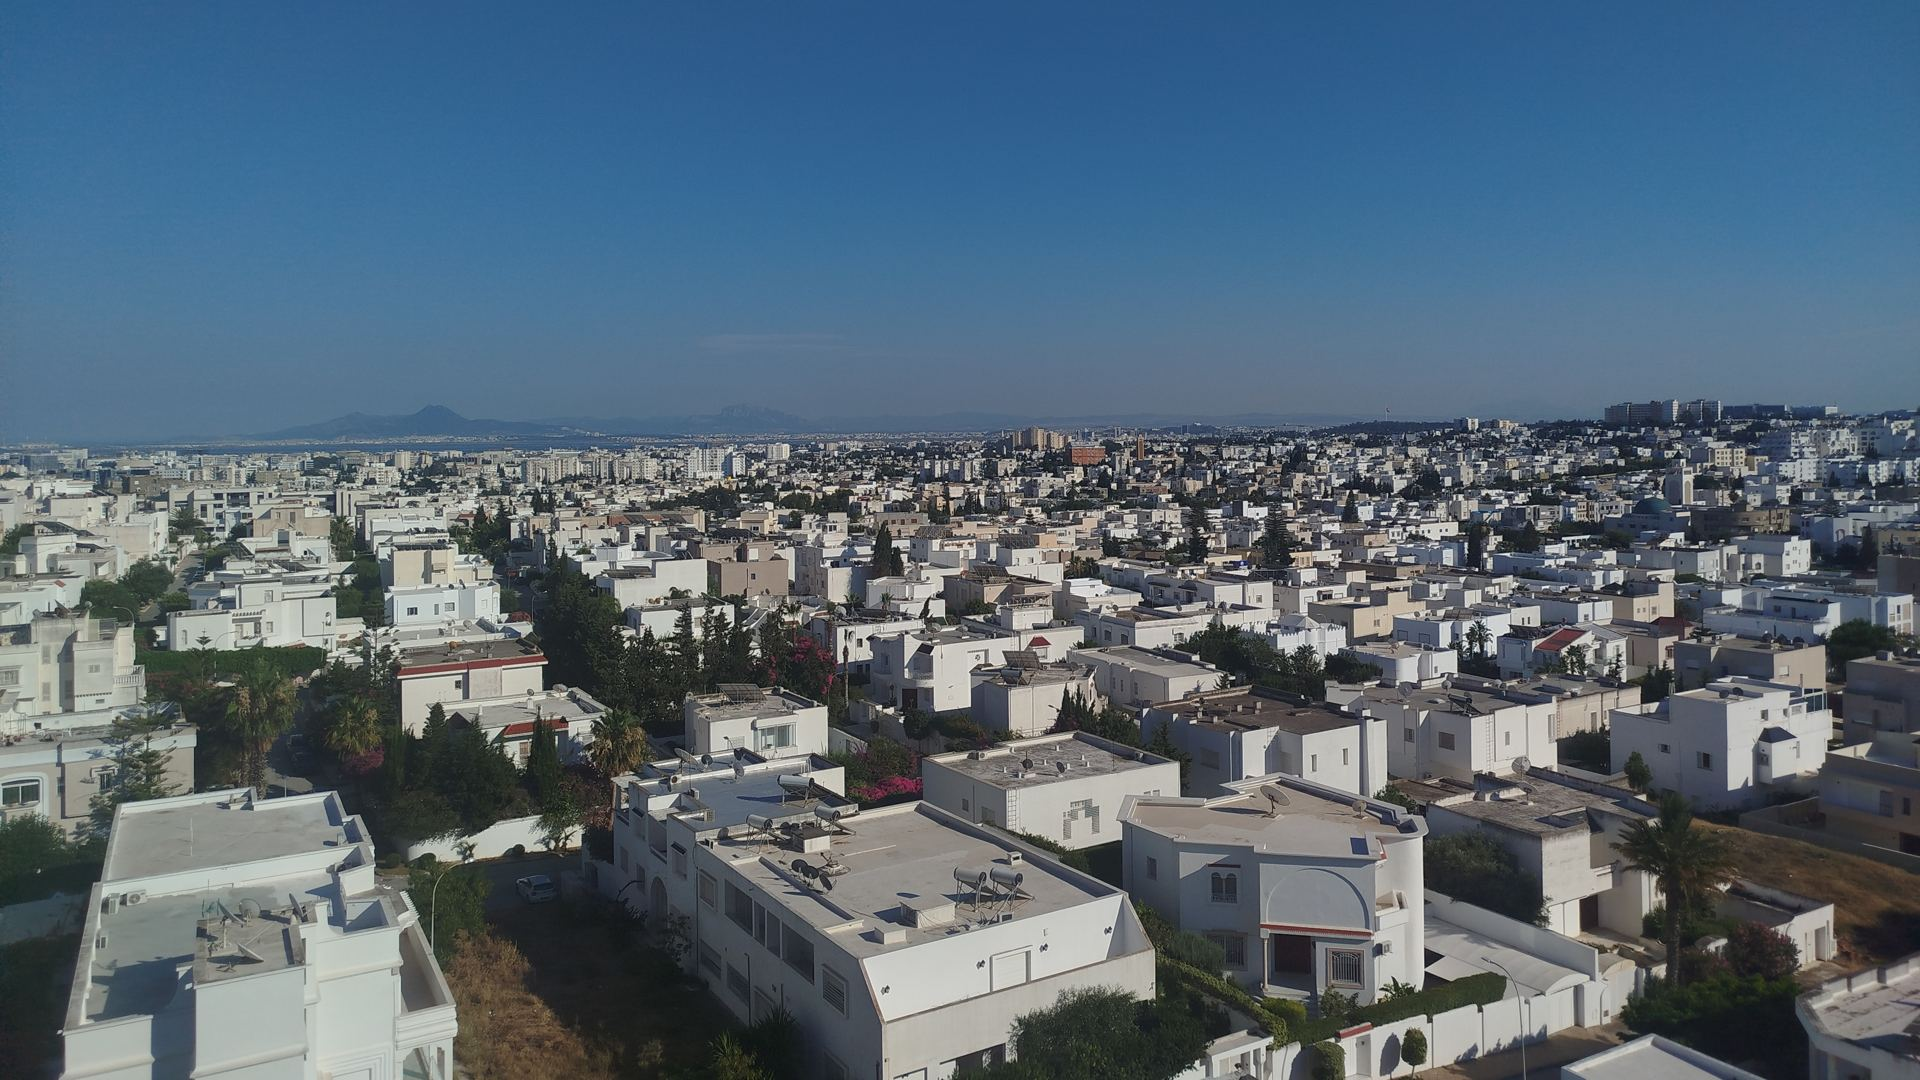
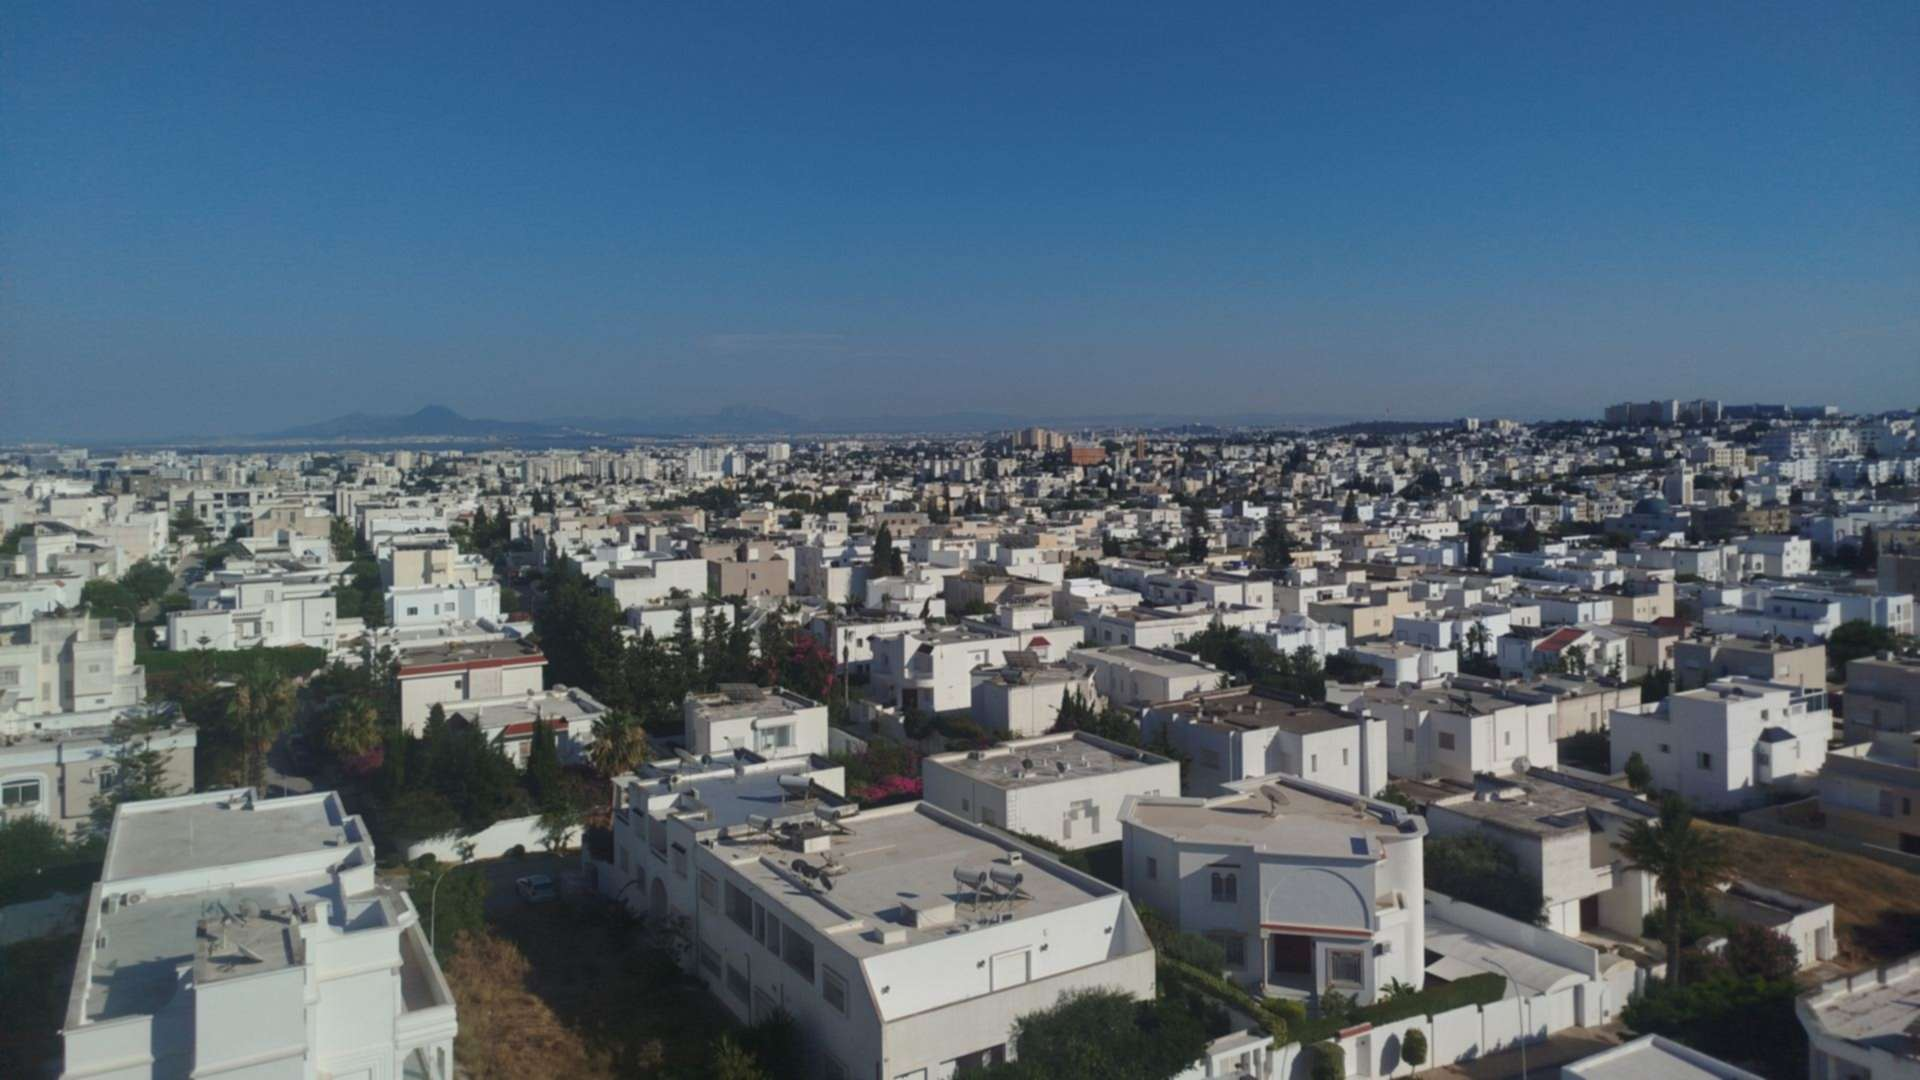
Page 404 du site + liens Confidentialité / Conditions d'utilisation dans le pied, photo d'accueil allégée (17/11/2026)

diff --git a/index.html b/index.html
@@ -19,7 +19,7 @@
 <link rel="preconnect" href="https://fonts.googleapis.com">
 <link rel="preconnect" href="https://fonts.gstatic.com" crossorigin>
 <link rel="stylesheet" href="https://fonts.googleapis.com/css2?family=Plus+Jakarta+Sans:wght@400;500;600;700;800&amp;family=IBM+Plex+Sans+Arabic:wght@400;500;700&amp;display=swap">
-<link rel="stylesheet" href="assets/agent.css?v=5">
+<link rel="stylesheet" href="assets/agent.css?v=6">
 <script type="application/ld+json">{"@context": "https://schema.org", "@type": "WebSite", "name": "Mon agent immobilier", "alternateName": "وكيلي العقاري", "url": "https://monagent.clicvia.com/", "inLanguage": ["fr", "ar"], "description": "Recherche d'annonces immobilières en Tunisie en une phrase, en français, en arabe ou en tunisien : appartements, maisons, terrains, à louer ou à vendre, dans les 24 gouvernorats.", "potentialAction": {"@type": "SearchAction", "target": {"@type": "EntryPoint", "urlTemplate": "https://monagent.clicvia.com/?q={search_term_string}"}, "query-input": "required name=search_term_string"}}</script>
 </head>
 <body data-maj="2026-11-16">
@@ -82,11 +82,12 @@
 <footer class="pied">
   <p data-fr="Les annonces restent celles de leurs auteurs : « Voir l’annonce » ouvre l’annonce d’origine. Prix et surfaces tels qu’ils sont publiés." data-ar="الإعلانات تبقى ملكًا لأصحابها: «شاهد الإعلان» يفتح الإعلان الأصلي. الأسعار والمساحات كما نُشرت.">Les annonces restent celles de leurs auteurs : « Voir l’annonce » ouvre l’annonce d’origine. Prix et surfaces tels qu’ils sont publiés.</p>
   <p class="credit"><span data-fr="Photo : Cité Ennasr, par Noomen9, Wikimedia Commons (domaine public)." data-ar="الصورة: حي النصر، Noomen9، ويكيميديا كومنز (ملك عام).">Photo : Cité Ennasr, par Noomen9, Wikimedia Commons (domaine public).</span></p>
+  <p class="liens-pied"><a href="https://clicvia.com/confidentialite/" rel="noopener" data-fr="Confidentialité" data-ar="الخصوصية" data-href-fr="https://clicvia.com/confidentialite/" data-href-ar="https://clicvia.com/ar/confidentialite/">Confidentialité</a> · <a href="https://clicvia.com/conditions/" rel="noopener" data-fr="Conditions d’utilisation" data-ar="شروط الاستعمال" data-href-fr="https://clicvia.com/conditions/" data-href-ar="https://clicvia.com/ar/conditions/">Conditions d’utilisation</a></p>
 </footer>
 
 <script src="donnees/index.js?v=29e4d15cd7" defer></script>
 <script src="assets/comprendre.js?v=1" defer></script>
-<script src="assets/agent.js?v=5" defer></script>
+<script src="assets/agent.js?v=6" defer></script>
 <!-- statistiques de visite sans cookies (GoatCounter) -->
 <script src="assets/stats.js?v=1"></script>
 <script data-goatcounter="https://prix-eaux-tunisie.goatcounter.com/count" async src="https://gc.zgo.at/count.js"></script>

diff --git a/404.js b/404.js
@@ -1,0 +1,29 @@
+/* Page 404 COMMUNE des sites clicvia.com (outils communs/page-404, 17/11/2026, règle commune § 58 point 14).
+   Ahmed : « Page introuvable » fait partir le visiteur. Donc, avant de le dire, la page CHERCHE l'adresse :
+   1) sur ce site avec ou sans « / » final ; 2) sur nos autres sites (liste lue sur l'accueil de clicvia.com : un nouveau site est trouvé
+   seul ; GitHub Pages répond « Access-Control-Allow-Origin: * »). Pendant la recherche : « Recherche de la page… ».
+   Trouvée = renvoi direct ; sinon « Page introuvable » avec les boutons Accueil et Tous nos services (8 s au plus). */
+(function () {
+  var p = location.pathname, ici = location.origin;
+  var titre = document.getElementById("titre"), texte = document.getElementById("texte"), ar = document.getElementById("texte-ar");
+  if (!window.fetch || !window.Promise || p === "/" || p.length > 300) return;
+  var fini = false, minuteur;
+  var fin = function (trouve) {
+    if (fini) return; fini = true; clearTimeout(minuteur);
+    if (trouve) { location.replace(trouve + location.search + location.hash); return; }
+    titre.textContent = "Page introuvable"; texte.textContent = "Cette adresse n'existe pas (ou plus)."; ar.textContent = "هذه الصفحة غير موجودة.";
+  };
+  titre.textContent = "Recherche de la page…"; texte.textContent = "Un instant : nous cherchons cette page."; ar.textContent = "لحظة من فضلك: نبحث عن هذه الصفحة.";
+  minuteur = setTimeout(function () { fin(null); }, 8000);
+  var essai = function (u) { return fetch(u, { method: "HEAD", mode: "cors", redirect: "follow" }).then(function (r) { return r.ok ? u : null; }, function () { return null; }); };
+  var autre = /\/$/.test(p) ? p.replace(/\/+$/, "") : p + "/";
+  essai(ici + autre).then(function (u) {
+    if (u) return fin(u);
+    return fetch("https://clicvia.com/", { cache: "no-store" }).then(function (r) { return r.text(); }).then(function (h) {
+      var vus = {}, hotes = [], m, re = /https:\/\/([a-z0-9-]+)\.clicvia\.com/g;
+      while ((m = re.exec(h))) { var b = "https://" + m[1] + ".clicvia.com"; if (m[1] !== "www" && b !== ici && !vus[b]) { vus[b] = 1; hotes.push(b); } }
+      var reste = hotes.length; if (!reste) return fin(null);
+      hotes.forEach(function (b) { essai(b + p).then(function (u) { if (u) fin(u); if (--reste === 0) fin(null); }); });
+    });
+  }).catch(function () { fin(null); });
+})();

diff --git a/404.html b/404.html
@@ -1,0 +1,33 @@
+<!doctype html>
+<html lang="fr" translate="no">
+<head>
+<meta charset="utf-8">
+<meta name="viewport" content="width=device-width, initial-scale=1">
+<meta name="robots" content="noindex">
+<meta http-equiv="Content-Security-Policy" content="default-src 'self'; script-src 'self'; style-src 'self' 'unsafe-inline'; img-src 'self' data:; object-src 'none'; base-uri 'self'; form-action 'none'; connect-src 'self' https://clicvia.com https://*.clicvia.com">
+<title>Page introuvable — Mon agent immobilier</title>
+<!-- Page 404 COMMUNE (outils communs/page-404, 17/11/2026, règle commune § 58 point 14) : copiée à la racine publiée de chaque site par
+     outils communs/page-404/installer.py ; ne pas la modifier dans un site (la modifier ici puis réinstaller). -->
+<style>
+body{margin:0;font-family:system-ui,-apple-system,"Segoe UI",Roboto,sans-serif;background:#F4F6FB;color:#1B2340;display:flex;min-height:100vh;align-items:center;justify-content:center;padding:20px;box-sizing:border-box}
+main{width:100%;max-width:520px;background:#fff;border:1px solid #DDE2EF;border-radius:18px;padding:26px 22px;text-align:center;box-shadow:0 8px 24px rgba(27,35,64,.08)}
+h1{font-size:22px;margin:0 0 10px} p{margin:0 0 14px;line-height:1.55;color:#4A5372}
+.boutons{display:flex;flex-wrap:wrap;gap:10px;justify-content:center;margin-top:6px}
+a.btn{display:inline-block;background:#0F5BD8;color:#fff;font-weight:700;text-decoration:none;border-radius:12px;padding:12px 18px}
+a.btn.second{background:#fff;color:#1B2340;border:1px solid #C9D0E3}
+[dir="rtl"]{font-family:"Noto Kufi Arabic",system-ui,sans-serif}
+</style>
+</head>
+<body>
+<main>
+  <h1 id="titre">Page introuvable</h1>
+  <p id="texte">Cette adresse n'existe pas (ou plus).</p>
+  <p id="texte-ar" dir="rtl" lang="ar">هذه الصفحة غير موجودة.</p>
+  <div class="boutons">
+    <a class="btn" href="/">Mon agent immobilier — Accueil · الرئيسية</a>
+    <a class="btn second" href="https://clicvia.com/">Tous nos services · كل خدماتنا</a>
+  </div>
+</main>
+<script src="/404.js"></script>
+</body>
+</html>

diff --git a/assets/agent.js b/assets/agent.js
@@ -374,6 +374,8 @@
     document.documentElement.lang = LANG;
     document.documentElement.dir = LANG === "ar" ? "rtl" : "ltr";
     [].forEach.call(document.querySelectorAll("[data-fr]"), function (el) { el.textContent = LANG === "ar" ? el.getAttribute("data-ar") : el.getAttribute("data-fr"); });
+    // liens du pied (Confidentialité, Conditions d'utilisation : pages communes, 17/11/2026) : adresse dans la langue de la page
+    [].forEach.call(document.querySelectorAll("[data-href-ar]"), function (el) { el.setAttribute("href", LANG === "ar" ? el.getAttribute("data-href-ar") : el.getAttribute("data-href-fr")); });
     $("langue").textContent = LANG === "ar" ? "FR" : "ع";
     $("langue").setAttribute("aria-label", LANG === "ar" ? "Français" : "العربية");
     $("nb-annonces").textContent = D && D.n ? nb(D.n) : "—";

diff --git a/assets/agent.css b/assets/agent.css
@@ -150,6 +150,7 @@ body.compacte .carte-pied { padding-top: 0; }
 
 .pied { padding: 28px clamp(16px, 4vw, 56px) 40px; text-align: center; color: var(--gris-clair); font-size: 13px; }
 .pied p { max-width: 760px; margin: 0 auto 6px; }
+.pied .liens-pied a { color: inherit; text-decoration: underline; }
 @media (prefers-reduced-motion: reduce) { *, *::before, *::after { animation: none !important; transition: none !important; } }
 
 /* ------------------------------------------------------------ résultats « E3 » : le résumé de l'agent, puis quartier par quartier */
